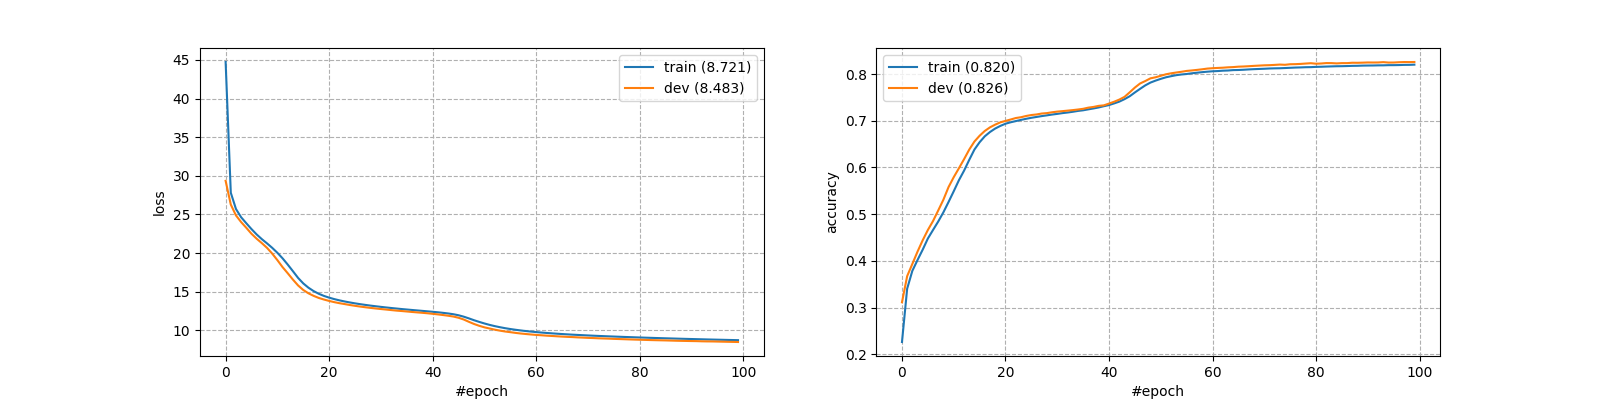
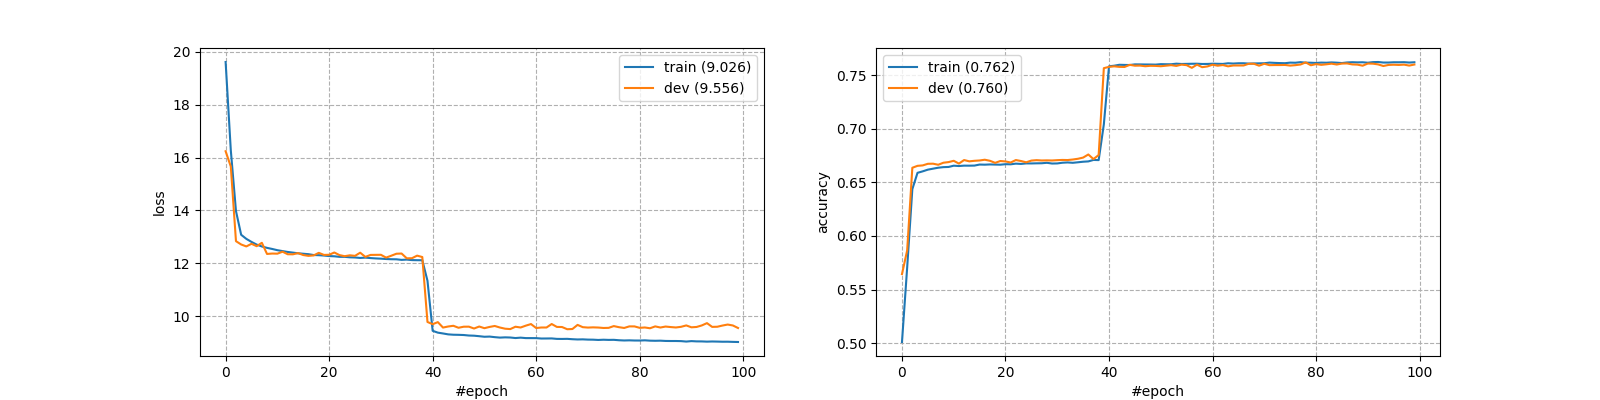
Исправил ошибки
1) добавил bias в модель
2) добавил поддержку глубоких сетей в SGD
3) исправил backward, теперь тест проходит
4) исправил тип

diff --git a/homework_1/tor4_test.py b/homework_1/tor4_test.py
@@ -1,3 +1,4 @@
+import tor4
 from tor4 import mse_loss, tensor
 
 
@@ -229,6 +230,19 @@ def test_my_backward1():
     assert a.grad.tolist() == [2, 36, 6]
 
 
+def test_my_backward2():
+    a = tensor(data=[1, 2, 3], requires_grad=True)
+    b = tensor(data=[-1, 3, 1.0], requires_grad=True)
+    c = tensor(data=[2, 3, 4], requires_grad=True)
+    f = a * b - a * c
+
+    f.backward(tensor([1, 1, 1]))
+
+    assert a.grad.tolist() == [-3, 0, -3]
+    assert b.grad.tolist() == [1, 2, 3]
+    assert c.grad.tolist() == [-1, -2, -3]
+
+
 def test_mse_backward():
     inputs = tensor(data=[1.0, 2, 3], requires_grad=True)
     targets = tensor(data=[2, 3, 2])
@@ -241,3 +255,48 @@ def test_mse_backward():
     assert mse_nn.data == mse == 3
     assert mse_nn.requires_grad
     assert inputs.grad.tolist() == [-2, -2, 2]
+
+
+def test_simple():
+    x_ = 2.
+    y_ = 3.
+    x = tensor(data=[x_], requires_grad=True)
+    y = tensor(data=[y_], requires_grad=True)
+
+    f = x * y - (x - y)
+
+    f.backward()
+
+    assert x.grad.tolist() == [y_ - 1]
+    assert y.grad.tolist() == [x_ + 1]
+
+
+def test_simple1():
+    x_ = 2.
+    y_ = 3.
+    z_ = 4.
+    x = tensor(data=[x_], requires_grad=True)
+    y = tensor(data=[y_], requires_grad=True)
+    z = tensor(data=[z_], requires_grad=True)
+
+    f = (x * y) - (x * z * y - y)
+
+    f.backward()
+
+    assert x.grad.tolist() == [y_ - z_ * y_]
+    assert y.grad.tolist() == [x_ - x_ * z_ + 1]
+    assert z.grad.tolist() == [-x_ * y_]
+
+
+def test_simple2():
+    x_ = 2.
+    y_ = 0.
+    x = tensor(data=[x_], requires_grad=True)
+    y = tensor(data=[y_], requires_grad=True)
+
+    f = tor4.sigmoid(x * y)
+
+    f.backward()
+
+    assert x.grad.tolist() == [0]
+    assert y.grad.tolist() == [0.5]

diff --git a/homework_1/tor4.py b/homework_1/tor4.py
@@ -45,7 +45,7 @@ class Tensor:
         return sigmoid(self)
 
     def zero_grad_(self) -> None:
-        self.grad = np.zeros_like(self.grad)
+        self.grad = Tensor(np.zeros(self.shape))
 
     def tolist(self):
         return self.data.tolist()
@@ -65,7 +65,10 @@ class Tensor:
             self.grad = Tensor(np.zeros_like(self.data))
 
         for depend in self.depends_on:
-            depend.tensor.grad = Tensor(depend.grad_fn(grad))
+            if depend.tensor.grad is None:
+                depend.tensor.grad = Tensor(depend.grad_fn(grad))
+            else:
+                depend.tensor.grad.data += depend.grad_fn(grad)
             depend.tensor.backward(depend.tensor.grad)
 
 
@@ -189,10 +192,12 @@ class SGD:
         self.lr = lr
 
     def step(self):
-        self.parameters.data -= self.parameters.grad.data * self.lr
+        for param in self.parameters:
+            param.data -= param.grad.data * self.lr
 
     def zero_grad(self):
-        self.parameters.zero_grad_()
+        for param in self.parameters:
+            param.zero_grad_()
 
 
 def mse_loss(inp: Tensor, target: Tensor) -> Tensor:

diff --git a/homework_1/training_loop.py b/homework_1/training_loop.py
@@ -87,6 +87,7 @@ class LinearModel:
         """Linear Model without explicit bias. Weights are initialized according to normal distribution"""
 
         self.weight = tor4.Tensor(data=np.random.normal(size=(in_features, n_classes)), requires_grad=True)
+        self.bias = np.array(-0.5)
 
     def __call__(self, x):
         return self.forward(x)
@@ -94,11 +95,12 @@ class LinearModel:
     def parameters(self):
         """Returns list of all trainable parameters"""
 
-        return self.weight
+        return [self.weight]
 
     def forward(self, x):
         """Performs forward pass"""
         a = x @ self.weight
+        a.data += self.bias
         y = a.sigmoid()
         return y
 
@@ -190,7 +192,7 @@ def main():
     model = get_model()
     criterion = get_criterion()
 
-    opt = get_optimizer(model.parameters())
+    opt = get_optimizer(model.parameters(), lr=1e-1)
 
     # Hyperparameters
     n_epochs = 100

diff --git a/homework_1/test.py b/homework_1/test.py
@@ -1,0 +1,3 @@
+from tor4_test import test_simple
+
+test_simple()
